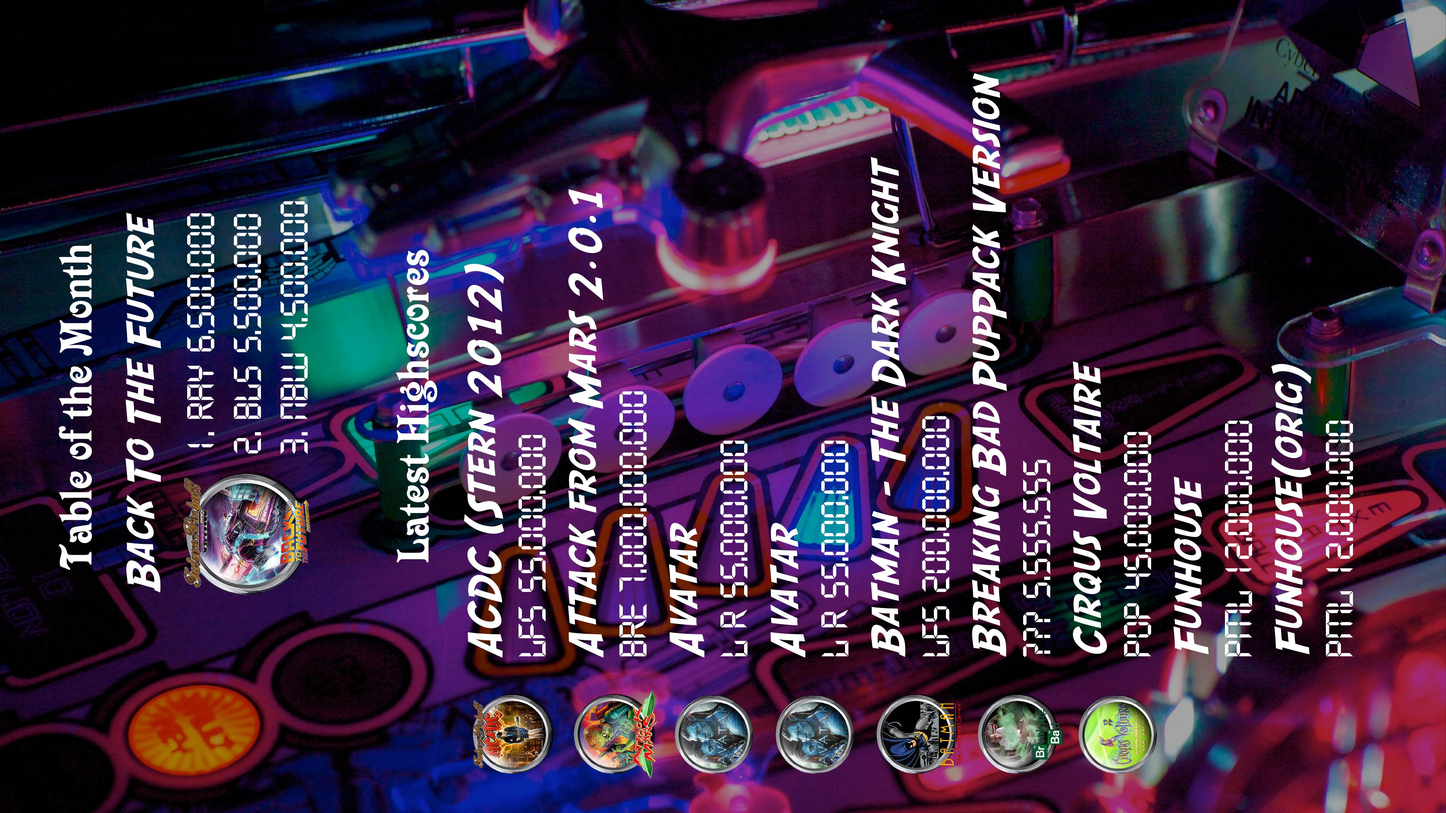
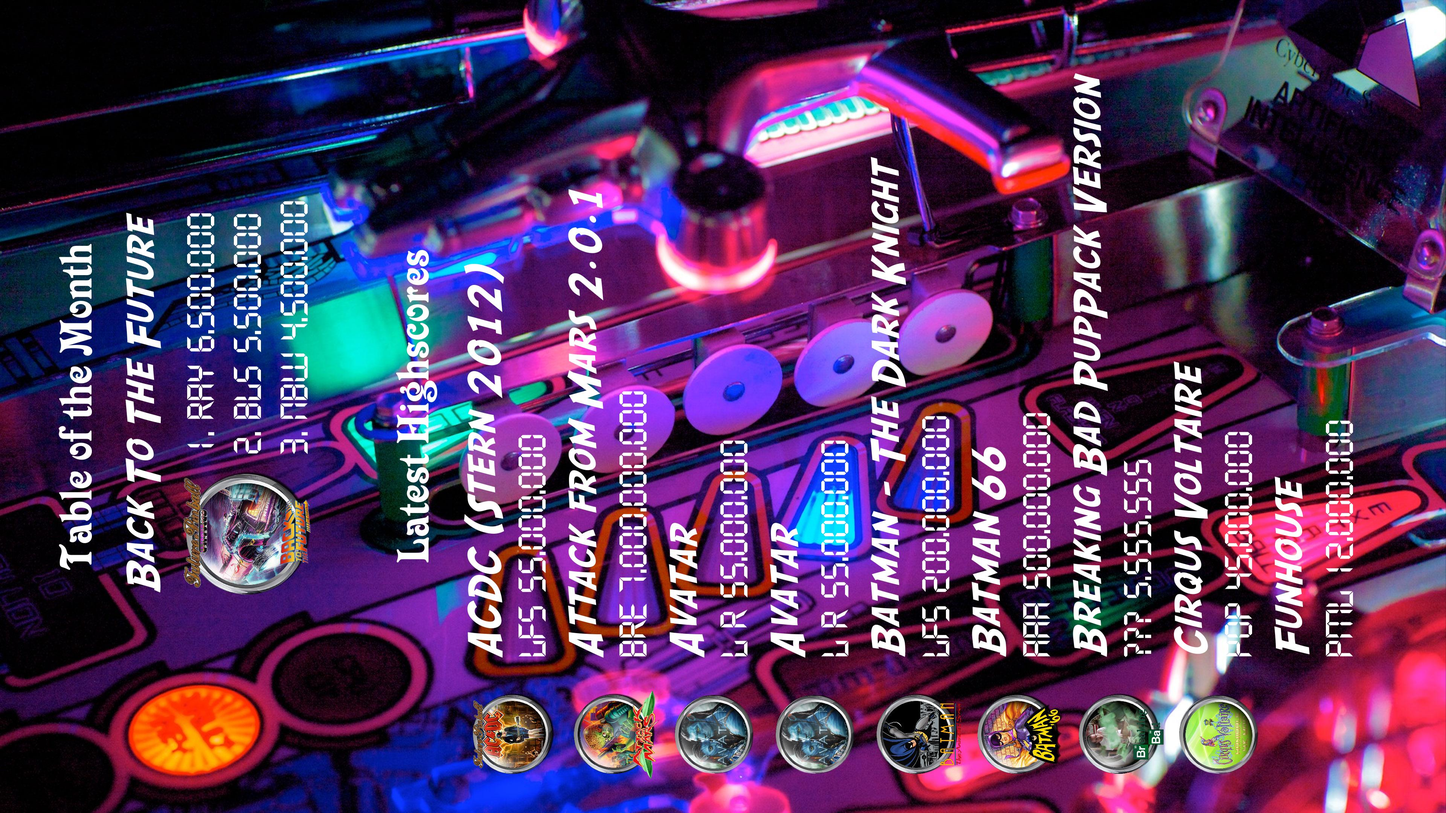
blur effect

diff --git a/src/main/java/de/mephisto/vpin/extensions/cardsettings/CardSettingsTab.java b/src/main/java/de/mephisto/vpin/extensions/cardsettings/CardSettingsTab.java
@@ -4,7 +4,7 @@ import de.mephisto.vpin.GameInfo;
 import de.mephisto.vpin.VPinService;
 import de.mephisto.vpin.b2s.B2SImageRatio;
 import de.mephisto.vpin.extensions.ConfigWindow;
-import de.mephisto.vpin.extensions.generator.HighscoreCardGenerator;
+import de.mephisto.vpin.extensions.generator.CardGenerator;
 import de.mephisto.vpin.extensions.util.Config;
 import de.mephisto.vpin.extensions.util.ProgressDialog;
 import de.mephisto.vpin.extensions.util.ProgressResultModel;
@@ -33,6 +33,8 @@ public class CardSettingsTab extends JPanel {
   private final static org.slf4j.Logger LOG = LoggerFactory.getLogger(CardSettingsTab.class);
   private final JLabel previewLabel;
   private final JComboBox backgroundSelector;
+  private final JComboBox ratioCombo;
+  private final JCheckBox useB2SCheckbox;
 
   private VPinService service;
 
@@ -76,8 +78,16 @@ public class CardSettingsTab extends JPanel {
 
     /******************************** Generator Fields ****************************************************************/
 
-    WidgetFactory.createCheckbox(settingsPanel, "", "Prefer DirectB2S Background (if available)", store, "card.useDirectB2S");
-    WidgetFactory.createCombobox(settingsPanel, Arrays.asList(B2SImageRatio.RATIO_16x9.toString(), B2SImageRatio.RATIO_4x3.toString()),"", store, "card.ratio");
+    useB2SCheckbox = WidgetFactory.createCheckbox(settingsPanel, "", "Prefer DirectB2S Background (if available)", store, "card.useDirectB2S");
+    useB2SCheckbox.addActionListener(new ActionListener() {
+      @Override
+      public void actionPerformed(ActionEvent e) {
+        ratioCombo.setEnabled(useB2SCheckbox.isSelected());
+      }
+    });
+
+    ratioCombo = WidgetFactory.createCombobox(settingsPanel, Arrays.asList(B2SImageRatio.RATIO_16x9.toString(), B2SImageRatio.RATIO_4x3.toString()), "Force Image Ratio:", store, "card.ratio");
+    ratioCombo.setEnabled(store.getBoolean("card.useDirectB2S"));
 
     backgroundSelector = WidgetFactory.createCombobox(settingsPanel, new File(SystemInfo.RESOURCES + "backgrounds/"),"Default Background:", store, "card.background");
     backgroundSelector.addActionListener(new ActionListener() {
@@ -104,6 +114,7 @@ public class CardSettingsTab extends JPanel {
     WidgetFactory.createSpinner(settingsPanel, "Padding Top:", "px", store, "card.title.y.offset", 80);
     WidgetFactory.createSpinner(settingsPanel, "Padding Left:", "px", store, "card.highscores.row.padding.left", 60);
     WidgetFactory.createSpinner(settingsPanel, "Row Separator:", "px", store, "card.highscores.row.separator", 10);
+    WidgetFactory.createSlider(settingsPanel, "Blur Background:", store, "card.blur");
     WidgetFactory.createSlider(settingsPanel, "Brighten Background:", store, "card.alphacomposite.white");
     WidgetFactory.createSlider(settingsPanel, "Darken Background:", store, "card.alphacomposite.black");
     WidgetFactory.createSlider(settingsPanel, "Border Size:", store, "card.border.width");
@@ -197,7 +208,7 @@ public class CardSettingsTab extends JPanel {
       GameInfo gameInfo = this.getSampleGame();
       if (gameInfo != null && getScreen() != null) {
         File file = new File(SystemInfo.RESOURCES, Config.getCardGeneratorConfig().get("card.background"));
-        File sampleFile = HighscoreCardGenerator.SAMPLE_FILE;
+        File sampleFile = CardGenerator.SAMPLE_FILE;
         if (sampleFile.exists()) {
           file = sampleFile;
         }
@@ -246,7 +257,12 @@ public class CardSettingsTab extends JPanel {
 
       iconLabel.setVisible(false);
       generateButton.setEnabled(false);
-      HighscoreCardGenerator.generateCard(getSampleGame(), getScreen(), HighscoreCardGenerator.SAMPLE_FILE);
+
+      File directB2SImage = getSampleGame().getDirectB2SImage();
+      if(directB2SImage.exists()) {
+        directB2SImage.delete();
+      }
+      CardGenerator.generateCard(service, getSampleGame(), getScreen(), CardGenerator.SAMPLE_FILE);
       iconLabel.setIcon(getPreviewImage());
       generateButton.setEnabled(true);
       iconLabel.setVisible(true);
@@ -280,7 +296,7 @@ public class CardSettingsTab extends JPanel {
 
   public void showGeneratedCard() {
     try {
-      File file = HighscoreCardGenerator.SAMPLE_FILE;
+      File file = CardGenerator.SAMPLE_FILE;
       if (file.exists()) {
         Desktop.getDesktop().open(file);
       }

diff --git a/src/main/java/de/mephisto/vpin/extensions/generator/CardGraphics.java b/src/main/java/de/mephisto/vpin/extensions/generator/CardGraphics.java
@@ -1,12 +1,14 @@
 package de.mephisto.vpin.extensions.generator;
 
 import de.mephisto.vpin.GameInfo;
+import de.mephisto.vpin.VPinService;
 import de.mephisto.vpin.b2s.B2SImageRatio;
 import de.mephisto.vpin.extensions.util.Config;
 import de.mephisto.vpin.highscores.Highscore;
 import de.mephisto.vpin.highscores.Score;
+import de.mephisto.vpin.util.ImageCropper;
+import de.mephisto.vpin.util.ImageUtil;
 import de.mephisto.vpin.util.SystemInfo;
-import org.apache.commons.io.FilenameUtils;
 import org.slf4j.Logger;
 import org.slf4j.LoggerFactory;
 
@@ -17,8 +19,8 @@ import java.io.File;
 import java.util.ArrayList;
 import java.util.List;
 
-public class HighscoreCardGraphics extends VPinGraphics {
-  private final static Logger LOG = LoggerFactory.getLogger(HighscoreCardGraphics.class);
+public class CardGraphics extends VPinGraphics {
+  private final static Logger LOG = LoggerFactory.getLogger(CardGraphics.class);
 
   private static int ROW_SEPARATOR = Config.getCardGeneratorConfig().getInt("card.highscores.row.separator");
   private static int ROW_PADDING_LEFT = Config.getCardGeneratorConfig().getInt("card.highscores.row.padding.left");
@@ -38,6 +40,7 @@ public class HighscoreCardGraphics extends VPinGraphics {
   private static int TABLE_FONT_SIZE = Config.getCardGeneratorConfig().getInt("card.table.font.size");
 
   private static int TITLE_Y_OFFSET = Config.getCardGeneratorConfig().getInt("card.title.y.offset");
+  private static int BLUR_PIXELS = Config.getCardGeneratorConfig().getInt("card.blur");
 
   private static boolean USE_DIRECTB2S = Config.getCardGeneratorConfig().getBoolean("card.useDirectB2S");
   private static B2SImageRatio DIRECTB2S_RATIO = B2SImageRatio.valueOf(Config.getCardGeneratorConfig().getString("card.ratio", B2SImageRatio.RATIO_16x9.name()));
@@ -61,20 +64,32 @@ public class HighscoreCardGraphics extends VPinGraphics {
     TABLE_FONT_SIZE = Config.getCardGeneratorConfig().getInt("card.table.font.size");
 
     TITLE_Y_OFFSET = Config.getCardGeneratorConfig().getInt("card.title.y.offset");
+    BLUR_PIXELS = Config.getCardGeneratorConfig().getInt("card.blur");
 
     USE_DIRECTB2S = Config.getCardGeneratorConfig().getBoolean("card.useDirectB2S");
     DIRECTB2S_RATIO = B2SImageRatio.valueOf(Config.getCardGeneratorConfig().getString("card.ratio", B2SImageRatio.RATIO_16x9.name()));
   }
 
-  public BufferedImage drawHighscores(GameInfo game) throws Exception {
+  public BufferedImage drawHighscores(VPinService service, GameInfo game) throws Exception {
     initValues();
 
     File sourceFile = new File(SystemInfo.RESOURCES + "backgrounds", Config.getCardGeneratorConfig().get("card.background"));
-    File directB2S = new File(SystemInfo.RESOURCES + "b2s", FilenameUtils.getBaseName(game.getGameFileName()) + ".png");
-    if(USE_DIRECTB2S) {
-      sourceFile = directB2S;
+    if (USE_DIRECTB2S && game.getDirectB2SFile().exists()) {
+      File b2sImage = game.getDirectB2SImage();
+      if (!b2sImage.exists()) {
+        sourceFile = service.createDirectB2SImage(game, DIRECTB2S_RATIO, 1280);
+      }
     }
+
     BufferedImage backgroundImage = super.loadBackground(sourceFile);
+    if (USE_DIRECTB2S) {
+      ImageCropper cropper = new ImageCropper(backgroundImage);
+      backgroundImage = cropper.crop(DIRECTB2S_RATIO.getXRatio(), DIRECTB2S_RATIO.getYRatio());
+    }
+
+    if(BLUR_PIXELS > 0) {
+      backgroundImage = ImageUtil.blurImage(backgroundImage, BLUR_PIXELS);
+    }
 
     float alphaWhite = Config.getCardGeneratorConfig().getFloat("card.alphacomposite.white");
     float alphaBlack = Config.getCardGeneratorConfig().getFloat("card.alphacomposite.black");
@@ -107,7 +122,7 @@ public class HighscoreCardGraphics extends VPinGraphics {
       g.setFont(new Font(TABLE_FONT_NAME, TABLE_FONT_STYLE, TABLE_FONT_SIZE));
       String tableName = game.getGameDisplayName();
       int width = g.getFontMetrics().stringWidth(tableName);
-      int tableNameY = titleY + TABLE_FONT_SIZE + TABLE_FONT_SIZE/2;
+      int tableNameY = titleY + TABLE_FONT_SIZE + TABLE_FONT_SIZE / 2;
       g.drawString(tableName, imageWidth / 2 - width / 2, tableNameY);
 
 

diff --git a/src/main/java/de/mephisto/vpin/extensions/generator/OverlayGraphics.java b/src/main/java/de/mephisto/vpin/extensions/generator/OverlayGraphics.java
@@ -5,6 +5,7 @@ import de.mephisto.vpin.VPinService;
 import de.mephisto.vpin.extensions.util.Config;
 import de.mephisto.vpin.highscores.Highscore;
 import de.mephisto.vpin.highscores.Score;
+import de.mephisto.vpin.util.ImageUtil;
 import de.mephisto.vpin.util.SystemInfo;
 import org.slf4j.Logger;
 import org.slf4j.LoggerFactory;
@@ -39,6 +40,8 @@ public class OverlayGraphics extends VPinGraphics {
   private static int ROW_PADDING_LEFT = Config.getOverlayGeneratorConfig().getInt("overlay.highscores.row.padding.left");
   private static int ROW_HEIGHT = TABLE_FONT_SIZE + ROW_SEPARATOR + SCORE_FONT_SIZE;
 
+  private static int BLUR_PIXELS = Config.getOverlayGeneratorConfig().getInt("overlay.blur");
+
   private static void initValues() {
     HIGHSCORE_TEXT = Config.getOverlayGeneratorConfig().getString("overlay.highscores.text");
     TITLE_TEXT = Config.getOverlayGeneratorConfig().getString("overlay.title.text");
@@ -59,18 +62,22 @@ public class OverlayGraphics extends VPinGraphics {
     ROW_SEPARATOR = Config.getOverlayGeneratorConfig().getInt("overlay.highscores.row.separator");
     ROW_PADDING_LEFT = Config.getOverlayGeneratorConfig().getInt("overlay.highscores.row.padding.left");
     ROW_HEIGHT = TABLE_FONT_SIZE + ROW_SEPARATOR + SCORE_FONT_SIZE;
+
+    BLUR_PIXELS = Config.getOverlayGeneratorConfig().getInt("overlay.blur");
   }
 
   public BufferedImage drawGames(VPinService service) throws Exception {
     initValues();
-
-    BufferedImage backgroundImage = super.loadBackground(new File(SystemInfo.RESOURCES, Config.getOverlayGeneratorConfig().getString("overlay.background")));
-    BufferedImage rotated = rotateRight(backgroundImage);
-
     int selection = Config.getOverlayGeneratorConfig().getInt("overlay.challengedTable");
     GameInfo gameOfTheMonth = null;
     if (selection > 0) {
       gameOfTheMonth = service.getGameInfo(selection);
+    }
+
+    BufferedImage backgroundImage = super.loadBackground(new File(SystemInfo.RESOURCES, Config.getOverlayGeneratorConfig().getString("overlay.background")));
+    BufferedImage rotated = rotateRight(backgroundImage);
+    if(BLUR_PIXELS > 0) {
+      rotated = ImageUtil.blurImage(rotated, BLUR_PIXELS);
     }
 
     float alphaWhite = Config.getOverlayGeneratorConfig().getFloat("overlay.alphacomposite.white");

diff --git a/src/main/java/de/mephisto/vpin/extensions/generator/CardGenerator.java b/src/main/java/de/mephisto/vpin/extensions/generator/CardGenerator.java
@@ -1,0 +1,51 @@
+package de.mephisto.vpin.extensions.generator;
+
+import de.mephisto.vpin.GameInfo;
+import de.mephisto.vpin.VPinService;
+import de.mephisto.vpin.extensions.util.Config;
+import de.mephisto.vpin.popper.PopperScreen;
+import de.mephisto.vpin.util.ImageUtil;
+import de.mephisto.vpin.util.SystemInfo;
+import org.slf4j.Logger;
+import org.slf4j.LoggerFactory;
+
+import java.awt.image.BufferedImage;
+import java.io.File;
+
+public class CardGenerator {
+  private final static Logger LOG = LoggerFactory.getLogger(CardGenerator.class);
+
+  public static File SAMPLE_FILE = new File(SystemInfo.RESOURCES, "highscore-card-sample.png");
+
+  public static BufferedImage generateCard(VPinService service, GameInfo game) throws Exception {
+    String screenName = Config.getCardGeneratorConfig().getString("popper.screen");
+    PopperScreen screen = PopperScreen.valueOf(screenName);
+    return generateCard(service, game, screen, null);
+  }
+
+  public static BufferedImage generateCard(VPinService service, GameInfo game, PopperScreen screen) throws Exception {
+    return generateCard(service, game, screen, null);
+  }
+
+  public static BufferedImage generateCard(VPinService service, GameInfo game, PopperScreen screen, File target) throws Exception {
+    return new CardGenerator().generate(service, game, screen, target);
+  }
+
+  BufferedImage generate(VPinService service, GameInfo game, PopperScreen screen, File target) throws Exception {
+    try {
+      BufferedImage backgroundImage = new CardGraphics().drawHighscores(service, game);
+      if (target == null) {
+        target = game.getPopperScreenMedia(screen);
+      }
+      if (target.exists()) {
+        target.delete();
+      }
+
+      ImageUtil.write(backgroundImage, target);
+      return backgroundImage;
+    } catch (Exception e) {
+      LOG.error("Failed to generate card: " + e.getMessage(), e);
+      throw e;
+    }
+  }
+}

diff --git a/src/main/java/de/mephisto/vpin/extensions/table/TablesTabActionListener.java b/src/main/java/de/mephisto/vpin/extensions/table/TablesTabActionListener.java
@@ -14,7 +14,6 @@ import java.awt.*;
 import java.awt.event.ActionEvent;
 import java.awt.event.ActionListener;
 import java.io.File;
-import java.io.IOException;
 import java.util.List;
 
 public class TablesTabActionListener implements ActionListener {
@@ -66,20 +65,15 @@ public class TablesTabActionListener implements ActionListener {
     else if (e.getActionCommand().equals("showDirectB2S")) {
       GameInfo selection = tablesTab.getGamesTable().getSelection();
       if (selection != null) {
-        File directB2SFile = selection.getDirectB2SFile();
-        if (directB2SFile.exists()) {
-          try {
-            File b2SImage = service.getB2SImage(selection, null);
-            if (b2SImage != null && b2SImage.exists()) {
-              try {
-                Desktop.getDesktop().open(b2SImage);
-              } catch (IOException ex) {
-                LOG.error("Failed to open " + b2SImage.getAbsolutePath() + ": " + ex.getMessage(), ex);
-              }
-            }
-          } catch (VPinServiceException ex) {
-            JOptionPane.showMessageDialog(configWindow, ex.getMessage(), "Image Extraction Failed", JOptionPane.WARNING_MESSAGE);
+        try {
+          File directB2SFileTemp = service.extractDirectB2SBackgroundImage(selection);
+          if (directB2SFileTemp != null && directB2SFileTemp.exists()) {
+            Desktop.getDesktop().open(directB2SFileTemp);
           }
+        } catch (VPinServiceException ex) {
+          JOptionPane.showMessageDialog(configWindow, ex.getMessage(), "Image Extraction Failed", JOptionPane.WARNING_MESSAGE);
+        } catch (Exception ex) {
+          JOptionPane.showMessageDialog(configWindow, ex.getMessage(), "Cannot open image: " + ex.getMessage(), JOptionPane.WARNING_MESSAGE);
         }
       }
     }

diff --git a/src/main/java/de/mephisto/vpin/extensions/cardsettings/GeneratorProgressModel.java b/src/main/java/de/mephisto/vpin/extensions/cardsettings/GeneratorProgressModel.java
@@ -5,7 +5,7 @@ import de.mephisto.vpin.VPinService;
 import de.mephisto.vpin.extensions.util.ProgressModel;
 import de.mephisto.vpin.extensions.util.ProgressResultModel;
 import de.mephisto.vpin.popper.PopperScreen;
-import de.mephisto.vpin.extensions.generator.HighscoreCardGenerator;
+import de.mephisto.vpin.extensions.generator.CardGenerator;
 import org.slf4j.Logger;
 import org.slf4j.LoggerFactory;
 
@@ -17,10 +17,12 @@ public class GeneratorProgressModel extends ProgressModel {
   private final Iterator<GameInfo> iterator;
   private final List<GameInfo> gameInfos;
 
+  private VPinService service;
   private PopperScreen screen;
 
   public GeneratorProgressModel(VPinService service, PopperScreen screen, String title) {
     super(title);
+    this.service = service;
     this.screen = screen;
     gameInfos = service.getGameInfos();
     iterator = gameInfos.iterator();
@@ -41,7 +43,7 @@ public class GeneratorProgressModel extends ProgressModel {
     try {
       GameInfo gameInfo = iterator.next();
       if (gameInfo.resolveHighscore() != null) {
-        HighscoreCardGenerator.generateCard(gameInfo, screen);
+        CardGenerator.generateCard(service, gameInfo, screen);
       }
       else {
         progressResultModel.addSkipped();

diff --git a/src/main/java/de/mephisto/vpin/extensions/overlaysettings/OverlaySettingsTab.java b/src/main/java/de/mephisto/vpin/extensions/overlaysettings/OverlaySettingsTab.java
@@ -2,7 +2,6 @@ package de.mephisto.vpin.extensions.overlaysettings;
 
 import de.mephisto.vpin.VPinService;
 import de.mephisto.vpin.extensions.ConfigWindow;
-import de.mephisto.vpin.extensions.generator.GraphicsGenerator;
 import de.mephisto.vpin.extensions.generator.OverlayGenerator;
 import de.mephisto.vpin.extensions.generator.VPinGraphics;
 import de.mephisto.vpin.extensions.util.Config;
@@ -99,6 +98,7 @@ public class OverlaySettingsTab extends JPanel {
     WidgetFactory.createSpinner(settingsPanel, "Padding Top:", "px", store, "overlay.title.y.offset", 80);
     WidgetFactory.createSpinner(settingsPanel, "Padding Left:", "px", store, "overlay.highscores.row.padding.left", 60);
     WidgetFactory.createSpinner(settingsPanel, "Row Separator:", "px", store, "overlay.highscores.row.separator", 32);
+    WidgetFactory.createSlider(settingsPanel, "Blur Background:", store, "overlay.blur");
     WidgetFactory.createSlider(settingsPanel, "Brighten Background:", store, "overlay.alphacomposite.white");
     WidgetFactory.createSlider(settingsPanel, "Darken Background:", store, "overlay.alphacomposite.black");
     WidgetFactory.createCheckbox(settingsPanel, "Ignore Tables without Wheel Icon", store, "overlay.skipWithMissingWheels");

diff --git a/src/main/java/de/mephisto/vpin/extensions/generator/OverlayGenerator.java b/src/main/java/de/mephisto/vpin/extensions/generator/OverlayGenerator.java
@@ -1,6 +1,7 @@
 package de.mephisto.vpin.extensions.generator;
 
 import de.mephisto.vpin.VPinService;
+import de.mephisto.vpin.util.ImageUtil;
 import de.mephisto.vpin.util.SystemInfo;
 import org.slf4j.Logger;
 import org.slf4j.LoggerFactory;
@@ -8,7 +9,7 @@ import org.slf4j.LoggerFactory;
 import java.awt.image.BufferedImage;
 import java.io.File;
 
-public class OverlayGenerator extends GraphicsGenerator {
+public class OverlayGenerator {
   private final static Logger LOG = LoggerFactory.getLogger(OverlayGenerator.class);
 
   public final static File GENERATED_OVERLAY_FILE = new File(SystemInfo.RESOURCES, "overlay.jpg");
@@ -32,7 +33,7 @@ public class OverlayGenerator extends GraphicsGenerator {
     try {
       service.refreshGameInfos();
       BufferedImage bufferedImage = new OverlayGraphics().drawGames(service);
-      super.writeJPG(bufferedImage, GENERATED_OVERLAY_FILE);
+      ImageUtil.write(bufferedImage, GENERATED_OVERLAY_FILE);
       return bufferedImage;
     } catch (Exception e) {
       LOG.error("Failed to generate overlay: " + e.getMessage(), e);

diff --git a/src/main/java/de/mephisto/vpin/extensions/ServiceRunner.java b/src/main/java/de/mephisto/vpin/extensions/ServiceRunner.java
@@ -3,7 +3,7 @@ package de.mephisto.vpin.extensions;
 import de.mephisto.vpin.GameInfo;
 import de.mephisto.vpin.VPinService;
 import de.mephisto.vpin.VPinServiceException;
-import de.mephisto.vpin.extensions.generator.HighscoreCardGenerator;
+import de.mephisto.vpin.extensions.generator.CardGenerator;
 import de.mephisto.vpin.extensions.generator.OverlayGenerator;
 import de.mephisto.vpin.extensions.util.Config;
 import de.mephisto.vpin.popper.TableStatusChangeListener;
@@ -55,7 +55,7 @@ public class ServiceRunner implements TableStatusChangeListener {
       if (StringUtils.isEmpty(targetScreen)) {
         GameInfo gameInfo = tableStatusChangedEvent.getGameInfo();
         LOG.info("Executing highscore card generation for '" + gameInfo + "'");
-        HighscoreCardGenerator.generateCard(gameInfo);
+        CardGenerator.generateCard(service, gameInfo);
       }
 
       LOG.info("Executing highscore overlay generation.");

diff --git a/src/main/java/de/mephisto/vpin/extensions/SuperMain.java b/src/main/java/de/mephisto/vpin/extensions/SuperMain.java
@@ -8,7 +8,7 @@ public class SuperMain {
       new Splash();
     }
     else if(args != null && args.length > 0 && args[0].contains("test")) {
-      new FXTest().main(args);
+      FXTest.main(args);
     }
     else if(args != null && args.length > 0 && args[0].contains("overlay")) {
       OverlayGenerator.main(args);
